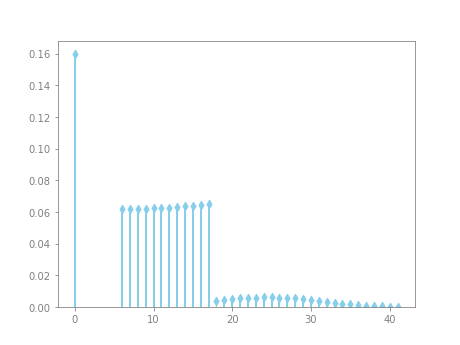
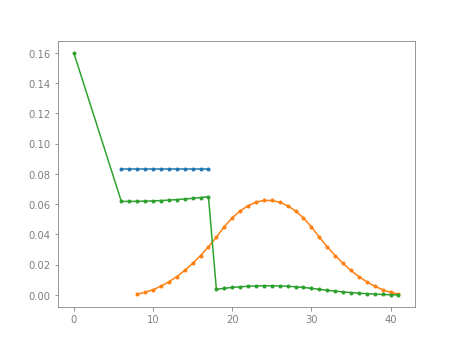
More figure tweaks

diff --git a/docs/plot_4d6_variants.py b/docs/plot_4d6_variants.py
@@ -7,21 +7,32 @@ def do_it(_: str) -> None:
     p_4d6 = 4 @ P(6)
     h = p_4d6.h(slice(1, None))
     faces, probabilities = h.data_xy(relative=True)
-    matplotlib.pyplot.plot(faces, probabilities, marker=".", label="Discard lowest")
+    matplotlib.pyplot.plot(
+        faces,
+        probabilities,
+        marker=".",
+        label="Discard lowest",
+    )
 
     d6_reroll_first_one = H(6).substitute(lambda h, f: H(6) if f == 1 else f)
     p_4d6_reroll_first_one = 4 @ P(d6_reroll_first_one)
     h = p_4d6_reroll_first_one.h(slice(1, None))
     faces, probabilities = h.data_xy(relative=True)
     matplotlib.pyplot.plot(
-        faces, probabilities, marker=".", label="Re-roll first 1; discard lowest"
+        faces,
+        probabilities,
+        marker=".",
+        label="Re-roll first 1; discard lowest",
     )
 
     p_4d6_reroll_all_ones = 4 @ P(H(range(2, 7)))
     h = p_4d6_reroll_all_ones.h(slice(1, None))
     faces, probabilities = h.data_xy(relative=True)
     matplotlib.pyplot.plot(
-        faces, probabilities, marker=".", label="Re-roll all 1s; discard lowest"
+        faces,
+        probabilities,
+        marker=".",
+        label="Re-roll all 1s; discard lowest",
     )
 
     matplotlib.pyplot.legend()

diff --git a/docs/plot_advantage.py b/docs/plot_advantage.py
@@ -5,7 +5,21 @@ def do_it(_: str) -> None:
     import matplotlib.pyplot
 
     normal_hit = H(12) + 5
+    faces, probabilities = normal_hit.data_xy(relative=True)
+    matplotlib.pyplot.plot(
+        faces,
+        probabilities,
+        marker=".",
+        label="normal hit",
+    )
     critical_hit = 3 @ H(12) + 5
+    faces, probabilities = critical_hit.data_xy(relative=True)
+    matplotlib.pyplot.plot(
+        faces,
+        probabilities,
+        marker=".",
+        label="critical hit",
+    )
     advantage = (2 @ P(20)).h(-1)
 
     def crit(_: H, f: int):
@@ -16,7 +30,11 @@ def do_it(_: str) -> None:
         else:
             return 0
 
-    adv_w_crit = advantage.substitute(crit)
-    faces, probabilities = adv_w_crit.data_xy(relative=True)
-    matplotlib.pyplot.scatter(faces, probabilities, color="skyblue", marker="d")
-    matplotlib.pyplot.bar(faces, probabilities, color="skyblue", width=0.25)
+    advantage_weighted = advantage.substitute(crit)
+    faces, probabilities = advantage_weighted.data_xy(relative=True)
+    matplotlib.pyplot.plot(
+        faces,
+        probabilities,
+        marker=".",
+        label="d20 advantage-weighted",
+    )

diff --git a/docs/plot_dupes.py b/docs/plot_dupes.py
@@ -14,6 +14,5 @@ def do_it(_: str) -> None:
 
     h = H(dupes(8 @ P(10))).lowest_terms()
     faces, probabilities = h.data_xy(relative=True)
-    matplotlib.pyplot.barh(faces, probabilities)
-
-    matplotlib.pyplot.title("Number of duplicates rolled in 8d10")
+    matplotlib.pyplot.bar(faces, probabilities)
+    matplotlib.pyplot.title(r"Chances of rolling $n$ duplicates in 8d10")

diff --git a/README.md b/README.md
@@ -154,18 +154,33 @@ See [the docs](https://posita.github.io/dyce/latest/) for a much more thorough t
 >>> p_4d6 = 4@P(6)
 >>> _ = p_4d6.h(slice(1, None))  # discard the lowest die (index 0)
 >>> faces, probabilities = _.data_xy(relative=True)
->>> matplotlib.pyplot.plot(faces, probabilities, marker=".")  # doctest: +SKIP
+>>> matplotlib.pyplot.plot(
+...   faces,
+...   probabilities,
+...   marker=".",
+...   label="Discard lowest",
+... )  # doctest: +SKIP
 
 >>> d6_reroll_first_one = H(6).substitute(lambda h, f: H(6) if f == 1 else f)
 >>> p_4d6_reroll_first_one = (4@P(d6_reroll_first_one))
 >>> _ = p_4d6_reroll_first_one.h(slice(1, None))  # discard the lowest
 >>> faces, probabilities = _.data_xy(relative=True)
->>> matplotlib.pyplot.plot(faces, probabilities, marker=".", label="Re-roll first 1; discard lowest")  # doctest: +SKIP
+>>> matplotlib.pyplot.plot(
+...   faces,
+...   probabilities,
+...   marker=".",
+...   label="Re-roll first 1; discard lowest",
+... )  # doctest: +SKIP
 
 >>> p_4d6_reroll_all_ones = 4@P(H(range(2, 7)))
 >>> _ = p_4d6_reroll_all_ones.h(slice(1, None))  # discard the lowest
 >>> faces, probabilities = _.data_xy(relative=True)
->>> matplotlib.pyplot.plot(faces, probabilities, marker=".", label="Re-roll all 1s; discard lowest")  # doctest: +SKIP
+>>> matplotlib.pyplot.plot(
+...   faces,
+...   probabilities,
+...   marker=".",
+...   label="Re-roll all 1s; discard lowest",
+... )  # doctest: +SKIP
 
 >>> matplotlib.pyplot.legend()  # doctest: +SKIP
 >>> matplotlib.pyplot.show()  # doctest: +SKIP
@@ -356,12 +371,22 @@ Example 2 translation:
 
 ```python
 >>> normal_hit = H(12) + 5
->>> print(normal_hit.format(width=0))
-{avg: 11.50, 6:  8.33%, 7:  8.33%, 8:  8.33%, ..., 16:  8.33%, 17:  8.33%}
+>>> faces, probabilities = normal_hit.data_xy(relative=True)
+>>> matplotlib.pyplot.plot(
+...   faces,
+...   probabilities,
+...   marker=".",
+...   label="normal hit",
+... )  # doctest: +SKIP
 
 >>> critical_hit = 3@H(12) + 5
->>> print(critical_hit.format(width=0))
-{avg: 24.50, 8:  0.06%, 9:  0.17%, 10:  0.35%, 11:  0.58%, ..., 38:  0.58%, 39:  0.35%, 40:  0.17%, 41:  0.06%}
+>>> faces, probabilities = critical_hit.data_xy(relative=True)
+>>> matplotlib.pyplot.plot(
+...   faces,
+...   probabilities,
+...   marker=".",
+...   label="critical hit",
+... )  # doctest: +SKIP
 
 >>> advantage = (2@P(20)).h(-1)
 
@@ -370,10 +395,14 @@ Example 2 translation:
 ...   elif f + 5 >= 14: return normal_hit
 ...   else: return 0
 
->>> _ = advantage.substitute(crit)
->>> faces, probabilities = _.data_xy(relative=True)
->>> matplotlib.pyplot.scatter(faces, probabilities, color="skyblue", marker="d")  # doctest: +SKIP
->>> matplotlib.pyplot.bar(faces, probabilities, color="skyblue", width=0.25)  # doctest: +SKIP
+>>> advantage_weighted = advantage.substitute(crit)
+>>> faces, probabilities = advantage_weighted.data_xy(relative=True)
+>>> matplotlib.pyplot.plot(
+...   faces,
+...   probabilities,
+...   marker=".",
+...   label="d20 advantage-weighted",
+... )  # doctest: +SKIP
 >>> matplotlib.pyplot.show()  # doctest: +SKIP
 
 ```
@@ -428,8 +457,8 @@ Translation:
 
 >>> _ = H(dupes(8@P(10))).lowest_terms()
 >>> faces, probabilities = _.data_xy(relative=True)
->>> matplotlib.pyplot.barh(faces, probabilities)  # doctest: +SKIP
->>> matplotlib.pyplot.title("Number of duplicates rolled in 8d10")  # doctest: +SKIP
+>>> matplotlib.pyplot.bar(faces, probabilities)  # doctest: +SKIP
+>>> matplotlib.pyplot.title(r"Chances of rolling $n$ duplicates in 8d10")  # doctest: +SKIP
 >>> matplotlib.pyplot.show()  # doctest: +SKIP
 
 ```
